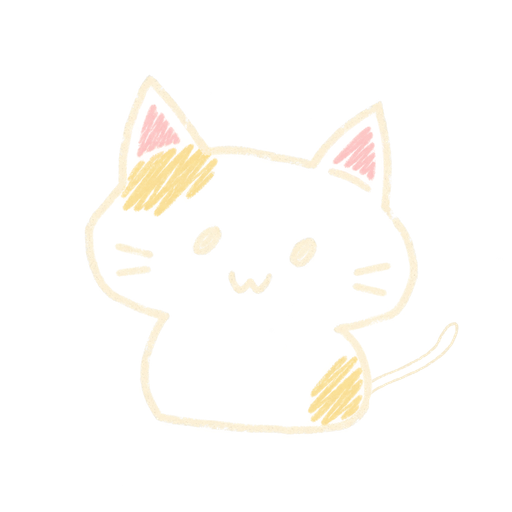
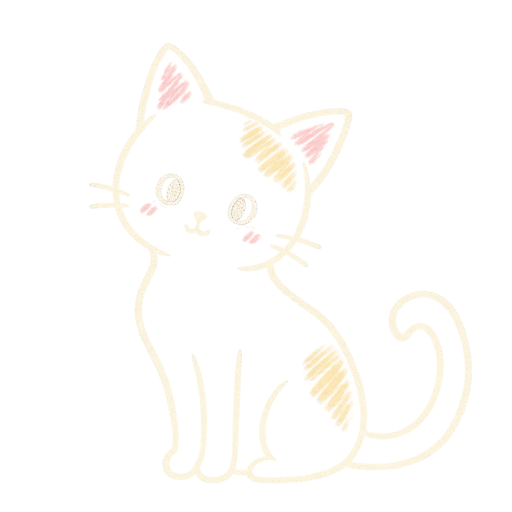
art: adopt sitting chalk cat and retain approved ring eyes

diff --git a/public/classroom/chalk/handdrawn/preview.html b/public/classroom/chalk/handdrawn/preview.html
@@ -39,7 +39,7 @@
       <article><div class="board"><img class="large" src="heart.webp" alt="柔粉色粉笔爱心" width="512" height="512"><img class="small" src="heart.webp" alt="" width="52" height="52"></div><h2>爱心</h2><div class="files"><a href="heart.webp" download>网页图片</a><a href="heart.png" download>PNG 原图</a></div></article>
       <article><div class="board"><img class="large" src="stars.webp" alt="淡黄、暖白与浅蓝粉笔星星" width="512" height="512"><img class="small" src="stars.webp" alt="" width="52" height="52"></div><h2>星星</h2><div class="files"><a href="stars.webp" download>网页图片</a><a href="stars.png" download>PNG 原图</a></div></article>
       <article><div class="board"><img class="large" src="balloons.webp?v=8" alt="按参考图绘制的淡紫、淡黄与浅蓝三只粉笔气球" width="512" height="512"><img class="small" src="balloons.webp?v=8" alt="" width="52" height="52"></div><h2>三个气球</h2><div class="files"><a href="balloons.webp" download>网页图片</a><a href="balloons.png" download>PNG 原图</a></div></article>
-      <article><div class="board"><img class="large" src="cat.webp?v=8" alt="暖白粉笔猫咪，带淡黄擦涂、柔粉耳内和细长尾巴" width="512" height="512"><img class="small" src="cat.webp?v=8" alt="" width="52" height="52"></div><h2>猫咪</h2><div class="files"><a href="cat.webp" download>网页图片</a><a href="cat.png" download>PNG 原图</a></div></article>
+      <article><div class="board"><img class="large" src="cat.webp?v=9" alt="连贯粉笔轮廓的坐姿猫咪，带圆环眼睛、淡黄柔粉擦涂和卷尾" width="512" height="512"><img class="small" src="cat.webp?v=9" alt="" width="52" height="52"></div><h2>猫咪</h2><div class="files"><a href="cat.webp" download>网页图片</a><a href="cat.png" download>PNG 原图</a></div></article>
     </section>
     <p class="note">下方小样固定为 52 px。背景颜色来自页面，图片里的空白与粉笔颗粒间隙均为透明区域。</p>
   </main>

diff --git a/public/classroom/chalk/handdrawn/PROMPTS.md b/public/classroom/chalk/handdrawn/PROMPTS.md
@@ -4,7 +4,7 @@
 
 固定配色参考：[原始材质参照](../../../../docs/assets/classroom-approved-material-reference-2026-09-09.png)；配色值来自上一级粉笔素材说明。以下提示词使用文字描述这些要求，生成时没有把旧 SVG 作为编辑目标。
 
-生成图保留真实透明通道。爱心、星星与气球的 PNG 为生成原图，第八版猫咪为保留原图主体的局部合成文件，具体处理见文末记录。WebP 为保持透明度的 512 × 512 网页缩放版本，仅等比缩小与无损编码。每款对应文件和推荐用法见 [README](README.md)。
+生成图保留真实透明通道。爱心、星星与气球的 PNG 为生成原图，第九版猫咪采用坐姿版本与用户认可的圆环眼睛局部合成，具体处理见文末记录。WebP 为保持透明度的 512 × 512 网页缩放版本，仅等比缩小与无损编码。每款对应文件和推荐用法见 [README](README.md)。
 
 ## 第一版完整提示词
 
@@ -38,7 +38,7 @@ Subject: ONE very cute simple sitting kitten, front-facing, with a slightly tilt
 
 ## 第二版：气球绳线与猫咪手绘感
 
-2026-09-10，根据用户对气球绳线缺少粉笔感、猫咪过于精致的反馈更新。以下两段是第二版气球和猫咪采用的提示词。第二版气球的粉笔质感获用户认可，后续追加了自然倾角和遮挡关系要求；两款当前采用第八版，见文末记录。爱心和星星沿用第一版。使用内置 imagegen 分别重新生成透明素材，保留原调用地址；前两次图像编辑返回了带棋盘格的非透明文件，未采用。
+2026-09-10，根据用户对气球绳线缺少粉笔感、猫咪过于精致的反馈更新。以下两段是第二版气球和猫咪采用的提示词。第二版气球的粉笔质感获用户认可，后续追加了自然倾角和遮挡关系要求；气球当前采用第八版，猫咪采用第九版，见文末记录。爱心和星星沿用第一版。使用内置 imagegen 分别重新生成透明素材，保留原调用地址；前两次图像编辑返回了带棋盘格的非透明文件，未采用。
 
 ### balloons：第二版记录
 
@@ -177,7 +177,7 @@ Add restrained pastel coloring: ONE soft yellow #efd28a patch at upper-left fore
 
[1 lines of base64/hex data omitted]
 
-### cat：当前尾巴插图的完整生成提示词
+### cat：第八版尾巴插图的完整生成提示词
 
 ```text
 Generate a SINGLE ISOLATED CAT TAIL INSERT for a chalk drawing, as a real RGBA PNG with fully transparent background. Draw ONLY a slim elongated hollow tail outline, no cat, body or face. The tail sweeps diagonally from lower-left to upper-right at about 35 degrees above horizontal. Shape is a long narrow slightly bent U: two nearby open ends at lower-left ROOT, the upper outline runs toward upper-right and makes a softly pointed rounded tip, then returns parallel but imperfectly along the lower outline to the second root end. The interior stays transparent. The overall long axis is approximately FIVE TIMES its short axis. This looks like a slender elongated cat tail with a small empty interior, NOT a round ring, handle, circle, coiled spiral or ribbon. Slightly irregular freehand shape, a few tiny angular turns, a charming quickly chalk-sketched outline. Whole insert centered in a transparent square with comfortable clear margin. Drawing extent about 85% canvas width and about 60% canvas height, including its diagonal orientation.
@@ -194,4 +194,33 @@ Precise composition on 1254x1254 square with real transparent margins: YELLOW ba
 Colors: soft muted lavender #b7afd0 for purple, pastel yellow #efd28a for yellow, pale blue #a4c5de for blue, warm ivory #f5efdb for strings. Actual colors come entirely from visibly applied chalk: slightly irregular colored outlines and broad short diagonal back-and-forth side-of-chalk RUBBING with patchy coverage, see-through grain holes and broken streaks. Fills lighter than outline. No solid digital fill, latex gloss, bright highlights, shading, gradients, 3D volume or realistic reflection. Preserve a quiet matte classroom palette and quick handmade simplicity.
 Exactly THREE distinct warm-ivory chalk strings starting at their respective visible knots at different heights and ending at ONE common point approximately (630,1125), directly below the trio. Yellow string is longest and passes behind the foreground balloons where occluded; purple string starts lowest and is shortest, blue string has intermediate length. Each main string has ONLY A SLIGHT SHALLOW ARC, not a rigid straight rod, no large S curves or sideways sweeping. Aim toward the common lower anchor with small natural freehand bends. Use ONE granular chalk stroke for each string, SAME visual stroke width as the balloon colored outlines, about 10-15px on the 1254px canvas; mild pressure variation, tiny interruptions and transparent grain THROUGH the stroke center. No smooth creamy ribbons, no hairline pencil, no double outlines, no decorative loops, bows, weights or knots at the common endpoint.
 Freehand irregular geometry, gently uneven curves and little chalk skips rather than perfect vector ellipses. Original simple cute chalk drawing, no lettering, numbers, labels, watermark, logos, checkerboard pattern, paper, surface, shadows or extra balloons. Entire motif with all strings contained inside square with at least 9% clear padding. Genuine alpha transparency in all empty areas and chalk grain gaps.
+```
+
+## 第九版：新参考坐姿、连贯粉笔线与圆环眼睛
+
+2026-09-11，用户确认气球可以固定，并提供新的坐姿猫参考，要求适当粉笔涂色，线条连贯且保留手绘感。用户随后明确认可第一张生成结果中的圆环眼睛。最终猫咪采用较接近参考的坐姿主体，保留该圆环眼睛；气球、爱心和星星的 PNG 与 WebP 均保持原文件不变。
+
+本次使用内置 imagegen 生成两张带真实透明通道的猫咪。最终 PNG 的主体来自 `exec-a9578796-a436-4cdc-8a4e-051c1f0ff50d.png`，眼睛来自用户认可的 `exec-593ced30-65fd-43cf-bced-02375f398aea.png`。眼睛直接取自该生成结果并局部合成，不重新绘制轮廓；除两个眼睛区域以外，主体版本像素保持一致。成品保留连贯的暖白粉笔轮廓，额头与后腿有淡黄擦涂，耳内和脸颊用少量柔粉，身体大部分区域透明。
+
[1 lines of base64/hex data omitted]
+
+### cat：圆环眼睛来源的完整生成提示词
+
+```text
+Use case: stylized-concept, a new chalk illustration adapted from a simple sitting-cat line-drawing reference. Generate ONE reusable CAT MOTIF as actual RGBA transparent PNG. Square canvas, only the cat, fully transparent background and transparent uncolored interior. Comfortable 12 percent clear margins on all sides, no cropping, no board, paper or checkerboard.
+Match this reference POSE and anatomy carefully: a graceful young sitting cat with a relatively small rounded triangular head, slightly tilted clockwise and positioned left of its body center. Two natural triangular ears, similar moderate size, ivory outer contour and dusty pink inner ears. Two cute wide open oval eyes in ivory chalk, a tiny nose and tiny quiet curved smile beneath, two short whiskers extending just outside each cheek. A LONG SLIM NECK flows into an upright elegant torso. The LEFT front silhouette is almost vertical, gently bowed inward below the head, flowing down to TWO slender straight FRONT LEGS that are separately drawn and stand side by side with small rounded foot ends at the bottom. Plain simple feet with no toes. The RIGHT outline slopes inward below the cheek, then sweeps gradually out to a rounded right hip/HAUNCH; show one simple inner curve at the haunch to indicate the folded rear leg. The body is distinctly TALLER THAN THE HEAD and gracefully elongated, not a squat big-headed kitten or a chubby front-facing blob. The face looks toward the viewer while the seated body is in a subtle three-quarter position. No line dividing the head from neck.
+TAIL is an important part of the reference: a long moderately full cat tail extends from behind the right hip out toward the right, lies in a broad low U-shaped sweep along the base, then CURLS UP AND BACK INWARD at its far-right end into a soft hook. The tip curves back toward the cat, not a ring sticking out of its hip. Two continuous tail contours enclose a mostly transparent narrow fur-shaped area, wider than a single string but not oversized or fluffy. The outward/upward hook at far right reaches about the lower half of the torso. Entire curled tail fits within the canvas. No detached tail, no oval handle loop, no snake-like long point, no spiral coils. Preserve the simple line-art rhythm of an elegant sitting cat with front paws and curved haunch.
+STYLE PRIORITY: real matte DRY CHALK, beautiful and cute, economical hand-drawn lines. Contour strokes should remain CONTINUOUS AND READABLE throughout each anatomical curve. Do NOT create intentional pen-lift gaps, dotted lines, disconnected outlines or lots of broken scratch fragments. Chalk character comes from granular pigment inside the continuous stroke, very small transparent pores, lightly feathered edges and mild pressure variation. Use naturally irregular freehand curves with a few subtle changes of direction; not perfectly smooth vector Bezier geometry, no mechanical symmetry, no exaggerated polygon corners. The overall path is connected even though microscopic chalk grain is visible. Medium fine warm ivory #f5efdb stroke around 10-15px on a 1254px square; use the same comfortable line weight throughout body and tail, whiskers slightly finer. No thick smooth white tubes, no artificial dark outlines, no dust clouds outside actual strokes.
+RESTRAINED CHALK COLORING matching a set of chalk hearts and stars: a soft pale-yellow #efd28a rubbed patch on one side of the forehead near an ear and another modest yellow patch on the rounded rear haunch. Pink #e6b1ba lightly rubbed inside both ears and tiny soft pink cheeks. Keep most face, neck, chest, legs and tail interior transparent. Every colored area consists of several visible short broad diagonal back-and-forth side-of-chalk rubbing strokes, uneven deposits with transparent grain and streak gaps. Do not use solid digital fills or smooth shading, and do not fill the entire cat white. Oval eyes are filled with a few ivory chalk rubs with small grain pores, no shiny eye highlights. Palette only muted ivory, pale yellow and dusty pink, harmonizing with grey-green chalkboard #426e63 but DO NOT DRAW THE BOARD. No black filled eyes, photoreal fur, gloss, gradients, dimensional shading, ground, shadows, accessories, text, watermark or extra decorations. Actual alpha transparent PNG.
+```
+
+### cat：坐姿主体来源的完整生成提示词
+
+```text
+Generate a SIMPLE SITTING CAT in dry chalk as a truly TRANSPARENT RGBA PNG, no background. Square canvas with 12% clear margin, the full cat including its curled tail contained. Cute simple line drawing adapted from a reference: head slightly tilted clockwise, front-facing eyes, seated torso seen at a slight three-quarter angle with rounded haunch to the right and a tail curling upward on the far right. Ordinary natural sitting-cat proportions, not a huge-headed chibi and not an extremely tall stretched cat.
+POSE: head including two triangular ears occupies about 42 percent of full cat height; body below the chin about 58 percent. Small roundish triangular face. Both triangular ears natural and similar in size, one tip slightly higher from the tilt. Neck is SHORT AND NATURAL: left cheek flows into a slightly inward-bowed chest, then two moderately short slim front legs placed side by side at the ground with simple rounded foot ends, no toes. Right cheek flows smoothly inward at the neck then out in a broad gentle curve to the rounded seated hip. One short simple inside curve indicates the bent right hind leg. The body has a modest soft belly and full haunch, but stays graceful. Avoid a stretched giraffe neck, long vertical stilts, anatomical fur details and angular polygon shapes. No heavy head/body dividing line.
+TAIL: from behind right hip, one moderately slim full tail runs right along the base, then curls upward and back toward the body at the far right, ending in a little inward hook. Outer and inner contours enclose the tail's empty transparent interior. A simple graceful low U curve with upturned inward tip, not an oval ring or detached handle. Tip rises only to the lower half of torso. Tail extends to the right about half the torso's width, not an enormous coil.
+FACE: EXACTLY TWO SIMPLE FILLED IVORY OVAL EYES, little chubby ovals with softly granular chalk fill all the way across. Absolutely NO separate eye outline, hollow center, iris ring, pupil, eye socket or shiny highlight. Just two filled chalk dots/ovals like a simple marker-cat doodle. Tiny ivory nose and tiny handwritten curved smile, two short whisker lines extending just beyond each cheek. Facial marks are small, clear and economical, no elaborate expression.
+MATERIAL: warm ivory #f5efdb chalk linework on real alpha, in a quiet classroom chalk aesthetic. Lines are CONTINUOUS along their whole paths, not dashed, dotted or disconnected. Chalk pores may be tiny but do NOT introduce visible gaps across the entire stroke width. Keep readable contours with natural mild pressure variation and very slight freehand wobble, some gentle uneven turns; not perfect mechanical Bezier curves and not jagged polygon edges. Single slender-but-readable chalk traces, about 10-14px at 1254px canvas. All anatomy contours and the tail use a consistent visual line weight. No thick creamy tubes, doubled outlines, scratchy broken line clusters or diffuse dust clouds outside the drawing. Smoothness of the gesture is natural, not vector precision.
+COLOR: retain mostly empty transparent face, torso, legs and tail. Add one modest pale-yellow #efd28a chalk rubbed patch on one side of the forehead and one on the rounded right haunch. Tiny dusty-pink #e6b1ba rubbed inner ears and two very small soft cheek blush marks. Every colored area MUST show several short diagonal back-and-forth side-of-chalk strokes, uneven coverage with transparent grain and streaks like filling a chalk-drawn yellow star or pink heart. No digitally solid coloring, white base fur fill, photographic shading, gradients, glossy highlights or black filled areas. Eyes filled with IVORY CHALK only, never hollow. Very simple and easy to copy by hand, no text, logo, watermark, accessories, extra motifs, ground, paper, board, background or checkerboard. Actual alpha transparency.
 ```

diff --git a/public/classroom/chalk/handdrawn/REFERENCES.md b/public/classroom/chalk/handdrawn/REFERENCES.md
@@ -13,7 +13,7 @@
 
 第六版气球采用三根独立的暖白粉笔线，中间接近竖直，两侧向组中心下方轻微倾斜；线条保留徒手偏差，宽度接近气球边缘。气球的不同倾角与前后关系通过形状和遮挡表达。当前第八版的构图以用户新提供的参考图为准，见下文。
 
-猫咪的涂色参考项目现有 [爱心](heart.png) 与 [星星](stars.png)：以几笔斜向往返擦涂构成色块，留下不均匀的笔画接缝与透明颗粒；额头和身体一侧使用淡黄，耳内少量柔粉，脸部中央与大部分身体保持透明。猫咪继续沿用用户参考画中的不等高耳朵与小身体造型，轮廓保留徒手转折。
+第六版猫咪的涂色参考项目现有 [爱心](heart.png) 与 [星星](stars.png)：以几笔斜向往返擦涂构成色块，留下不均匀的笔画接缝与透明颗粒；额头和身体一侧使用淡黄，耳内少量柔粉，脸部中央与大部分身体保持透明。该版采用用户当时参考画中的不等高耳朵与小身体造型。当前猫咪改为用户第九版新参考的坐姿，见下文。
 
 检索导出的八张图片中实际目视比较了以上六张。导出清单与图片保存在项目 `codex-generated/chalk-handdrawn-2026-09-10/references-v6/`，原图的来源地址可在导出清单中核对。此处商品链接来自图片预览显示的来源地址，未把商品描述作为画法依据。
 
@@ -22,3 +22,9 @@
 用户在新参考图中指定三只气球：标注 1 为左下紫色气球，标注 2 为中间较高的黄色气球，标注 3 为右侧蓝色气球。当前版本只绘制这三只，并按参考保留其高低位置和前后遮挡；使用低饱和淡紫、淡黄与浅蓝粉笔色，不绘制参考中的其他气球，也不采用摄影光泽。
 
 三根绳线从各自结口向下方汇合，保留轻微弧度与粉笔颗粒。用户参考原图存放于项目 `codex-generated/chalk-handdrawn-2026-09-10/revision-8/balloons-user-reference.png`，仅用于制作参考，不包含在网页素材包中。
+
+## 第九版：用户新坐姿猫参考
+
+用户提供新的简笔坐姿猫图，采用稍微侧向的身体、两只独立前腿与向右上方卷回的尾巴。当前猫咪按此姿态重新制作，轮廓保持连贯，通过轻微粗细变化和粉笔颗粒体现徒手质感，不再刻意制造整段线条的断点。局部颜色继续参考既有粉笔填色方式，保持大部分内部区域透明。
+
+用户在生成过程中明确认可圆环眼睛，因此最终图保留该细节。新的参考原图保存在项目 `codex-generated/chalk-handdrawn-2026-09-10/revision-9/cat-user-reference.png`，仅用于制作参考。气球已经获得确认，本次不再更改其图片文件。

diff --git a/public/classroom/chalk/handdrawn/README.md b/public/classroom/chalk/handdrawn/README.md
@@ -2,7 +2,7 @@
 
 这一套用于当前教室的灰绿色黑板，主要使用暖白、淡黄、柔粉和浅蓝；第八版气球根据用户指定参考增加淡紫。四款素材各自独立，背景透明，粉笔线条和涂色中的颗粒空隙可以透出网页背景。
 
-2026-09-11 第八版更新：猫咪去除腹部中间的 w 形笔画，右侧尾巴改为细长形状；两处局部区域外的原图像素保持不变，保留已确认的颜色与徒手轮廓。气球按用户新参考图仅绘制标注的三只：黄色较高，紫色位于左下并受遮挡，蓝色在右侧前方；保留粉笔擦涂和轻微弯曲的绳线。两款 PNG 和 WebP 已更新，文件地址沿用原路径。参考与采用方式见 [REFERENCES.md](REFERENCES.md)。
+2026-09-11 第九版猫咪更新：根据用户新的坐姿猫参考，采用独立前腿、弯曲后腿和向右上方卷回的尾巴，轮廓保持连贯，通过轻微粗细变化与粉笔颗粒保留徒手质感。局部使用淡黄与柔粉擦涂，并按用户补充意见保留圆环眼睛。猫咪 PNG 和 WebP 已更新；气球固定为已确认的第八版，爱心和星星继续沿用原版。参考与采用方式见 [REFERENCES.md](REFERENCES.md)。
 
 | 图案 | 标识 | 网页文件 | 原始文件 |
 | --- | --- | --- | --- |
@@ -11,7 +11,7 @@
 | 三个气球 | `balloons` | [balloons.webp](balloons.webp) | [balloons.png](balloons.png) |
 | 猫咪 | `cat` | [cat.webp](cat.webp) | [cat.png](cat.png) |
 
-爱心、星星与气球的 PNG 保留生图原件；猫咪 PNG 使用已确认原图与单独生成的尾巴素材作局部合成，修改范围和验证结果见 [PROMPTS.md](PROMPTS.md)。WebP 为 512 × 512 像素，保留完整透明通道，按无损模式编码；缩小后适合常用的 160 像素展示尺寸，也可用于 52 像素的小图案。空白边缘是构图的一部分，图片应等比缩放，避免拉伸。
+爱心、星星与气球的 PNG 保留生图原件；猫咪 PNG 将本次坐姿版本与用户认可的圆环眼睛局部合成，生成输入和验证结果见 [PROMPTS.md](PROMPTS.md)。WebP 为 512 × 512 像素，保留完整透明通道，按无损模式编码；缩小后适合常用的 160 像素展示尺寸，也可用于 52 像素的小图案。空白边缘是构图的一部分，图片应等比缩放，避免拉伸。
 
 ## 网页调用
 
